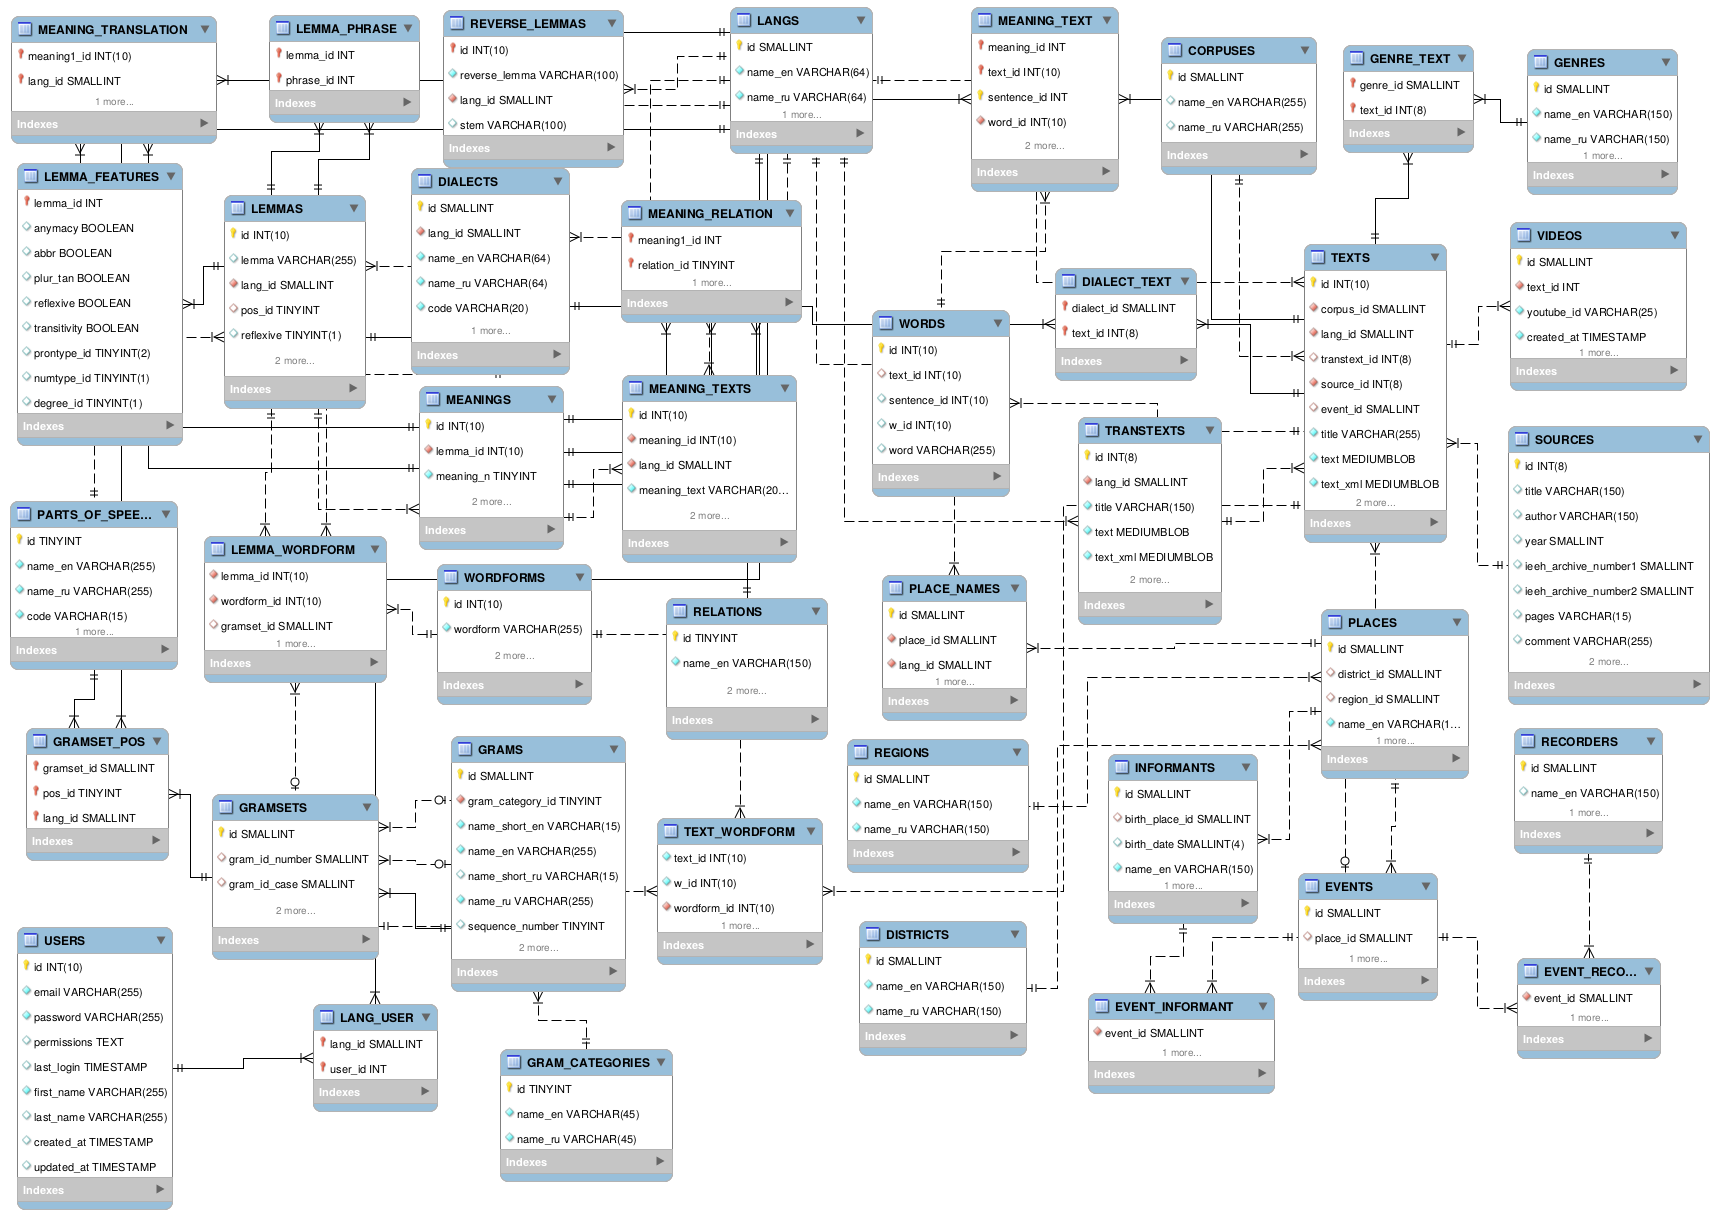
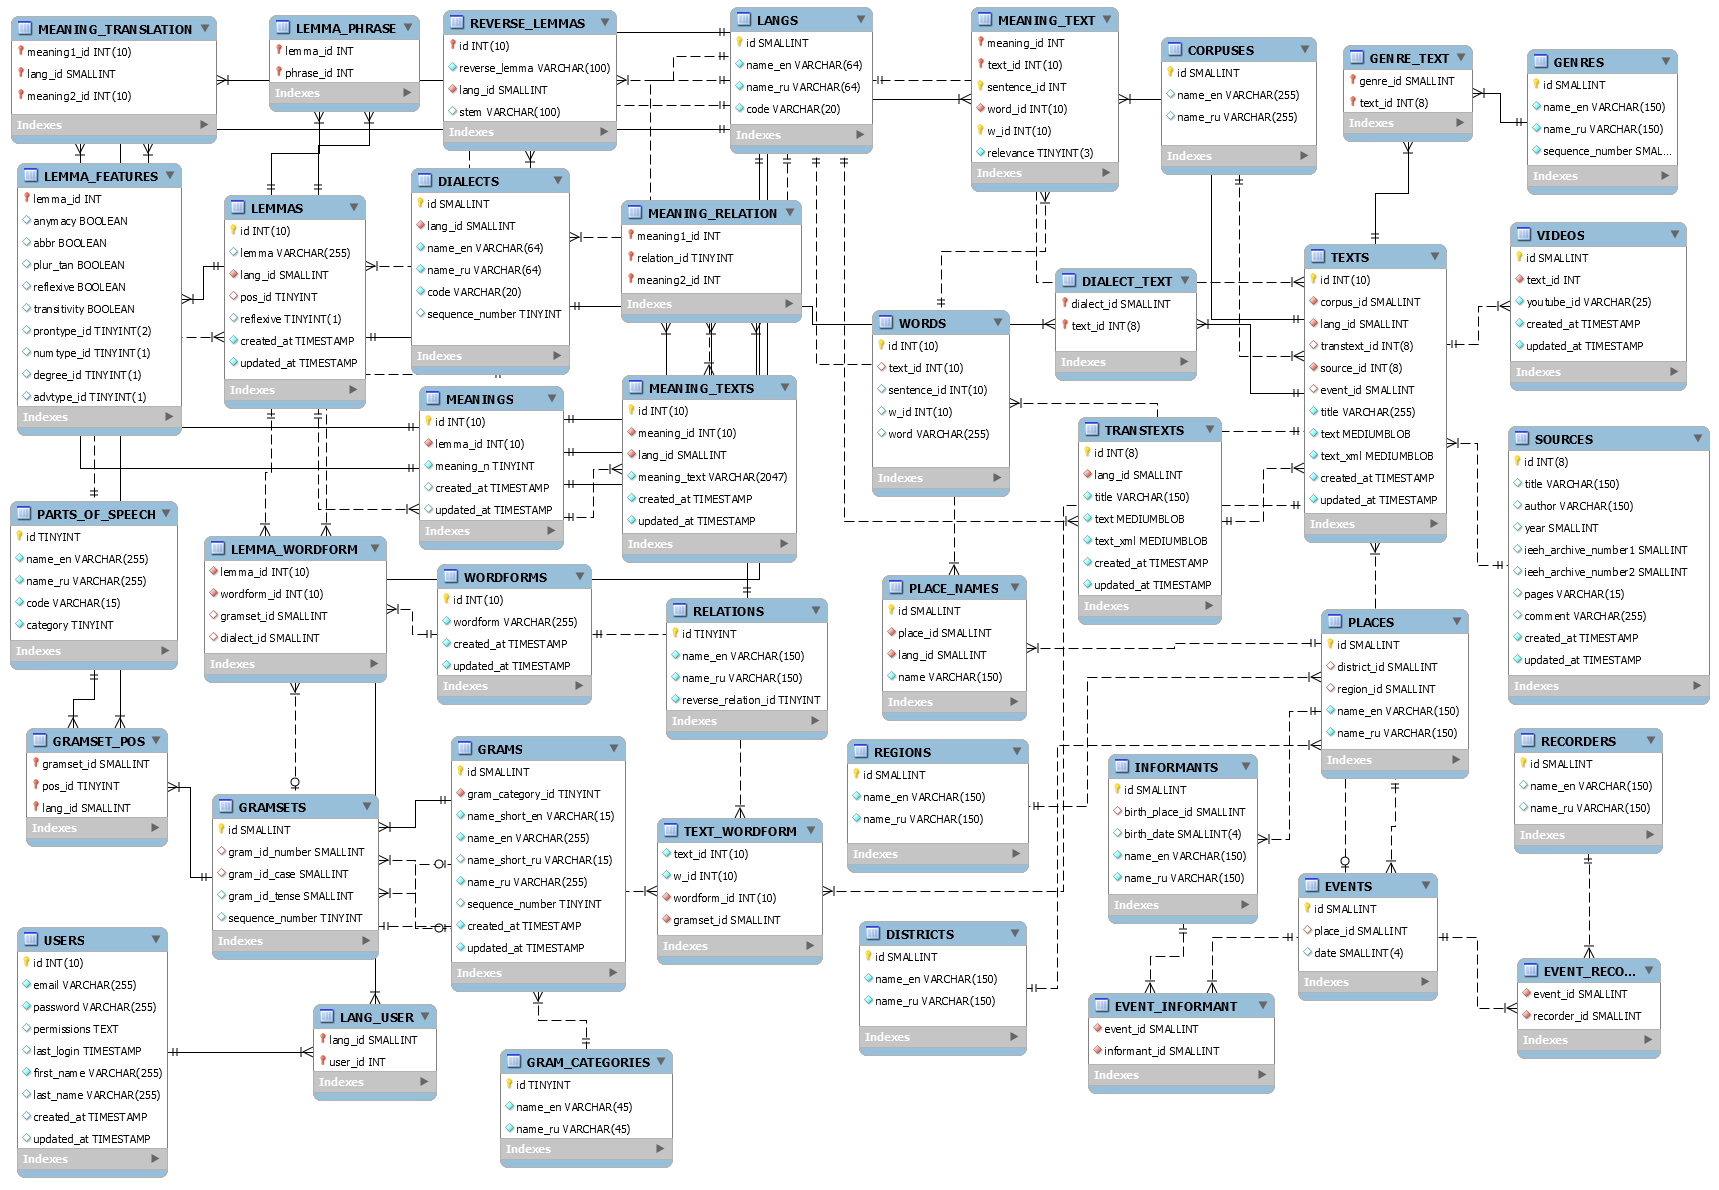
+ lemma_features migration

Changed region(s): [[0.0, 0.0, 1.0, 0.995], [0.6783, 0.0311, 0.8633, 0.1555], [0.0925, 0.9639, 0.1233, 0.995]]

diff --git a/database/migrations/2019_01_09_122419_create_lemma_features_table.php b/database/migrations/2019_01_09_122419_create_lemma_features_table.php
@@ -1,0 +1,40 @@
+<?php
+
+use Illuminate\Database\Schema\Blueprint;
+use Illuminate\Database\Migrations\Migration;
+
+class CreateLemmaFeaturesTable extends Migration
+{
+    /**
+     * Run the migrations.
+     *
+     * @return void
+     */
+    public function up()
+    {
+        Schema::create('lemma_features', function (Blueprint $table) {
+            $table->integer('lemma_id')->unsigned();
+            $table->foreign('lemma_id')->references('id')->on('lemmas');
+            
+            $table->tinyInteger('animacy')->unsigned();
+            $table->unsignedTinyInteger('abbr');
+            $table->unsignedTinyInteger('plur_tan');
+            $table->unsignedTinyInteger('transitivity');
+            $table->unsignedTinyInteger('reflexive');
+            $table->unsignedTinyInteger('prontype_id');
+            $table->unsignedTinyInteger('numtype_id');
+            $table->unsignedTinyInteger('degree_id');
+            $table->unsignedTinyInteger('advtype_id');            
+        });
+    }
+
+    /**
+     * Reverse the migrations.
+     *
+     * @return void
+     */
+    public function down()
+    {
+        Schema::drop('lemma_features');
+    }
+}
